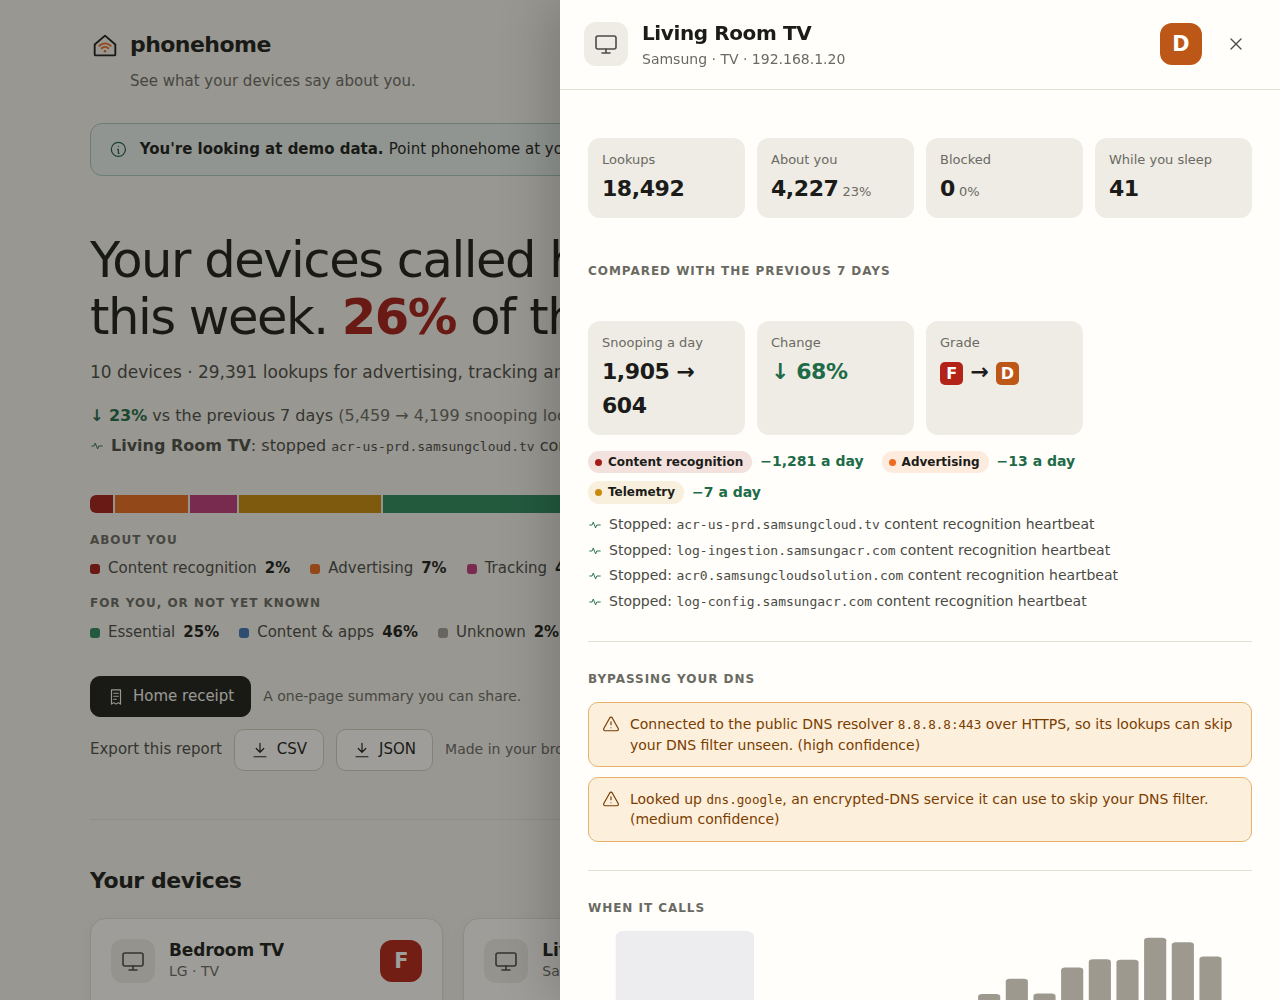
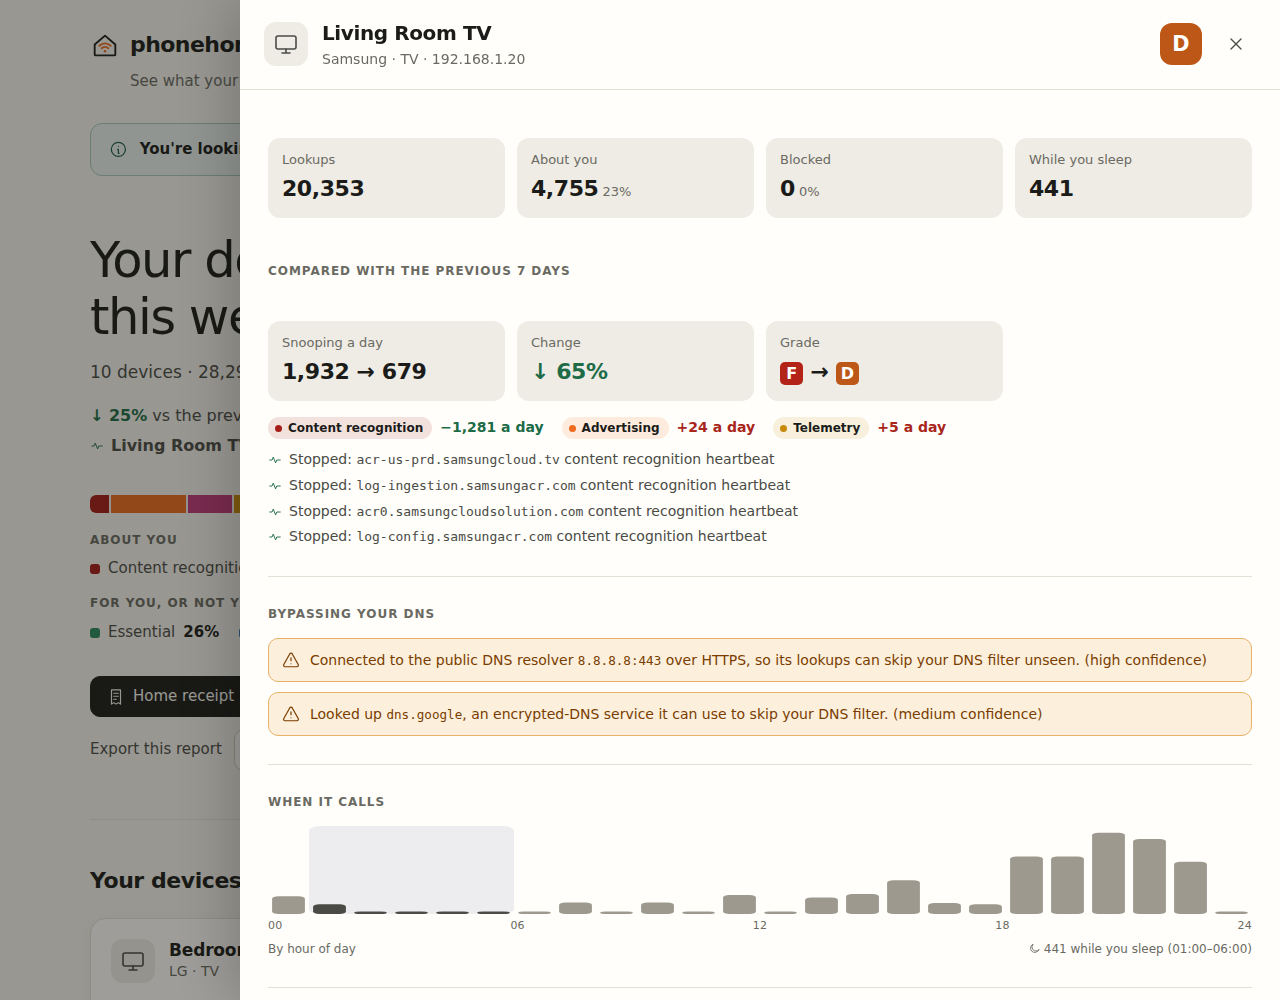
Fix v0.3 review items: upstream block after CNAME, domain table width
- dnsmasq: without serials, a blocking verdict now goes to an unanswered
  query with the same name before a held one. When A got a CNAME and
  AAAA was then "blocked upstream", the block went to A. The verdict
  after a "blocked during CNAME inspection" line still goes to the
  inspected query.
- dashboard: h() flattened only one level, so the domain table's
  evidence links ([' ', <a>] pairs) were stringified to their raw URLs,
  making the rule column ~1300px wide. With that fixed, a wider details
  panel and wrapping date/confidence cells, the table fits at 1280px; on
  phones it still scrolls sideways, with the domain column kept readable.
- kb: LG ThinQ regional rules cite the region enum and each region's
  full country list, and name every region that list covers.
- CHANGELOG: note the pihole-api "<name>-devices" source health entry.

diff --git a/internal/web/static/app.css b/internal/web/static/app.css
@@ -383,7 +383,7 @@ dialog { color: var(--ink); background: var(--surface); border: 0; padding: 0; }
 dialog::backdrop { background: var(--backdrop); }
 
 .drawer {
-  margin: 0 0 0 auto; height: 100%; max-height: 100%; width: min(720px, 100%); max-width: 100%;
+  margin: 0 0 0 auto; height: 100%; max-height: 100%; width: min(1040px, 100%); max-width: 100%;
   box-shadow: -12px 0 48px rgba(0, 0, 0, 0.18); overflow-y: auto; overscroll-behavior: contain;
 }
 .drawer[open] { animation: slide-in 0.22s cubic-bezier(0.2, 0.7, 0.2, 1); }
@@ -426,8 +426,9 @@ th .sort {
   border: 0; background: none; padding: 0; font: inherit; color: inherit; cursor: pointer; white-space: nowrap;
 }
 th .sort:hover, th[aria-sort] .sort { color: var(--ink); }
-td.when { color: var(--ink-2); white-space: nowrap; font-size: 0.8125rem; }
-td.rule { white-space: nowrap; font-size: 0.8125rem; color: var(--ink-2); }
+td.when { color: var(--ink-2); font-size: 0.8125rem; min-width: 7em; }
+td.rule { font-size: 0.8125rem; color: var(--ink-2); min-width: 8em; }
+td.rule a { white-space: nowrap; }
 td.rule a { display: inline-flex; align-items: center; gap: 3px; }
 td.rule .ico { width: 12px; height: 12px; }
 .hero-actions.export { margin-top: 12px; }
@@ -627,6 +628,7 @@ pre + pre { margin-top: 10px; }
   .drawer-body { padding: 0 16px 32px; }
   .stats { grid-template-columns: repeat(2, minmax(0, 1fr)); }
   th.company, td.company { display: none; }
+  .domain-table td:first-child { min-width: 11em; } /* the table scrolls sideways; the name stays readable */
   .controls { width: 100%; flex-direction: column; align-items: stretch; }
   .period button { white-space: nowrap; }
   .lang select { width: 100%; }

diff --git a/internal/web/static/app.js b/internal/web/static/app.js
@@ -102,7 +102,7 @@ function setLang(lang) {
 function h(tag, props, ...kids) {
   const el = document.createElement(tag);
   setProps(el, props);
-  el.append(...kids.flat().filter((k) => k != null && k !== false));
+  el.append(...kids.flat(Infinity).filter((k) => k != null && k !== false)); // nested lists too: never stringify an element
   return el;
 }
 

diff --git a/internal/source/dnsmasq/log.go b/internal/source/dnsmasq/log.go
@@ -182,6 +182,9 @@ type pending struct {
 	line     int
 	answered bool
 	hold     int // answered with a CNAME: line number up to which to wait
+	// inspected: held, and blocked by a "blocked during CNAME inspection"
+	// line, so the verdict line that follows is its own.
+	inspected bool
 }
 
 type reader struct {
@@ -280,8 +283,10 @@ func (r *reader) read(ctx context.Context, s segment) (position, error) {
 //	gravity blocked m.example is 0.0.0.0   (not when answered from cache)
 //
 // so the CNAME-inspection line goes to the held query, and the verdict
-// after it to a held query before any unanswered one: a client asking A
-// and AAAA for m.example at once has both pending.
+// after it to that query: a client asking A and AAAA for m.example at once
+// has both pending. Any other blocking verdict goes to an unanswered query
+// first, and only then to a held one: when A got a CNAME and AAAA is then
+// "blocked upstream", the block is AAAA's.
 func answer(queue []pending, e event, lineNum int) {
 	matches := func(p *pending) bool {
 		if p.e.serial != "" && e.serial != "" {
@@ -295,19 +300,24 @@ func answer(queue []pending, e event, lineNum int) {
 		for i := len(queue) - 1; i >= 0; i-- {
 			p := &queue[i]
 			if p.hold > 0 && (p.e.serial == "" || e.serial == "" || p.e.serial == e.serial) {
-				p.e.blocked = true // still held for the verdict line after it
+				p.e.blocked, p.inspected = true, true // still held for the verdict line after it
 				return
 			}
 		}
 		return
 	}
-	if e.blocked {
+	// release ends a held query's wait with a blocking verdict.
+	release := func(only func(p *pending) bool) bool {
 		for i := range queue {
-			if p := &queue[i]; p.hold > 0 && matches(p) {
-				p.e.blocked, p.hold = true, 0 // the verdict is final
-				return
+			if p := &queue[i]; p.hold > 0 && matches(p) && only(p) {
+				p.e.blocked, p.hold, p.inspected = true, 0, false // the verdict is final
+				return true
 			}
 		}
+		return false
+	}
+	if e.blocked && release(func(p *pending) bool { return p.inspected }) {
+		return
 	}
 	for i := range queue {
 		p := &queue[i]
@@ -319,6 +329,9 @@ func answer(queue []pending, e event, lineNum int) {
 			p.hold = lineNum + cnameHold
 		}
 		return
+	}
+	if e.blocked {
+		release(func(*pending) bool { return true })
 	}
 }
 

diff --git a/internal/source/dnsmasq/log_test.go b/internal/source/dnsmasq/log_test.go
@@ -362,3 +362,27 @@ func TestCNAMEVerdicts(t *testing.T) {
 		"14:10:00 ok.example A 192.168.1.22 false",
 	})
 }
+
+// TestUpstreamBlockAfterCNAME: without serials, A gets a CNAME reply and
+// is held; the upstream then blocks AAAA for the same name. The block is
+// AAAA's, not the held A query's.
+func TestUpstreamBlockAfterCNAME(t *testing.T) {
+	path := filepath.Join(t.TempDir(), "pihole.log")
+	l := newTestLog(path)
+	const p = "Oct  2 14:10:00 dnsmasq[9]: "
+	appendFile(t, path, p+"query[A] m.example from 192.168.1.21\n"+
+		p+"forwarded m.example to 9.9.9.9\n"+
+		p+"query[AAAA] m.example from 192.168.1.21\n"+
+		p+"forwarded m.example to 9.9.9.9\n"+
+		p+"reply m.example is <CNAME>\n"+
+		p+"reply cdn.example is 192.0.2.10\n"+
+		p+"blocked upstream with NULL address m.example is ::\n"+
+		p+"query[A] ok.example from 192.168.1.22\n"+
+		p+"reply ok.example is 192.0.2.2\n")
+	got, _ := drain(t, l, "", 10)
+	equal(t, got, []string{
+		"14:10:00 m.example A 192.168.1.21 false",
+		"14:10:00 m.example AAAA 192.168.1.21 true",
+		"14:10:00 ok.example A 192.168.1.22 false",
+	})
+}

diff --git a/internal/web/i18n_test.go b/internal/web/i18n_test.go
@@ -135,3 +135,16 @@ func TestCatalogCoversPage(t *testing.T) {
 		}
 	}
 }
+
+// TestElementHelperFlattens guards h() in app.js: callers pass nested lists
+// (the domain table's evidence links are [' ', <a>] pairs), and a list that
+// is not flattened is turned into a string, so a link shows its raw URL.
+func TestElementHelperFlattens(t *testing.T) {
+	b, err := staticFS.ReadFile("static/app.js")
+	if err != nil {
+		t.Fatal(err)
+	}
+	if !strings.Contains(string(b), "el.append(...kids.flat(Infinity)") {
+		t.Error("h() in app.js must flatten its children completely")
+	}
+}

diff --git a/CHANGELOG.md b/CHANGELOG.md
@@ -8,6 +8,21 @@
   and Ecovacs' regional REST, MQTT and XMPP hosts (from the Deebot
   libraries), each linked to the line of code that names it.
 
+### Fixed
+- In `pihole.log` without serials, when a client asked A and AAAA for the
+  same name, A got a CNAME reply and AAAA was then blocked upstream, the
+  block was counted for A instead of AAAA.
+- The device panel's domain table fits a 1280px screen: the panel is wider,
+  dates and confidence wrap, and the evidence column shows "Evidence 1/2"
+  links instead of raw URLs (a list of links was being turned into text).
+- LG ThinQ regional API rules cite the full list of countries each region
+  serves, and their purposes now name every region that list covers.
+
+### Changed in v0.3.0, now noted
+- Each `pihole-api` source also shows a second `<name>-devices` entry in
+  the source health list: it reads device names from Pi-hole's
+  `/api/network/devices`.
+
 ## v0.3.0
 
 ### New
